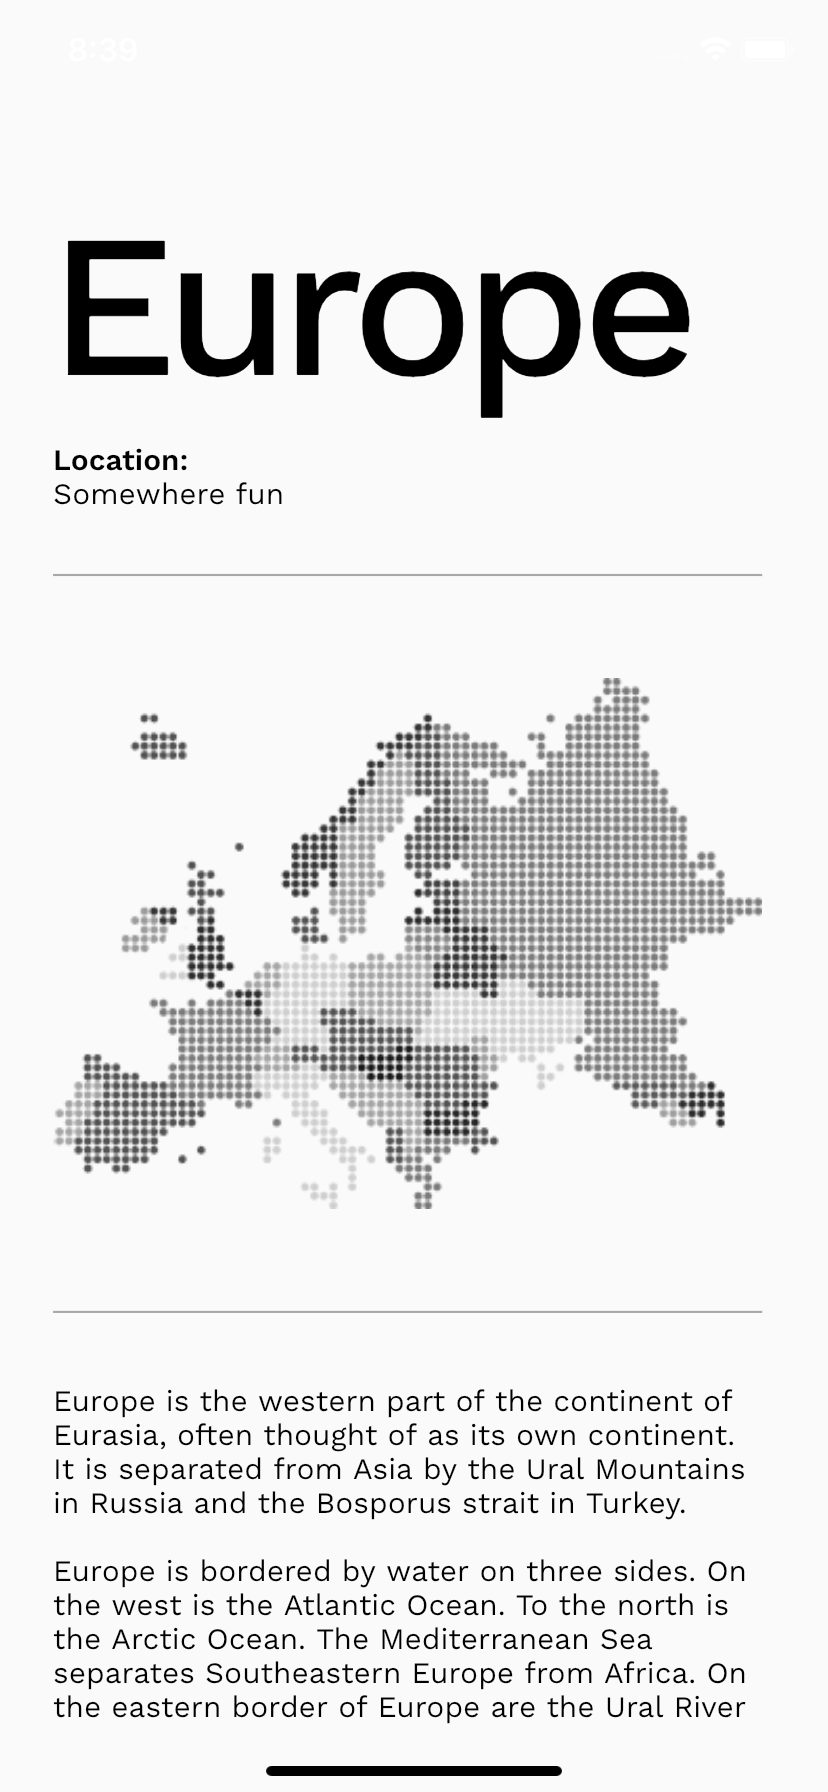
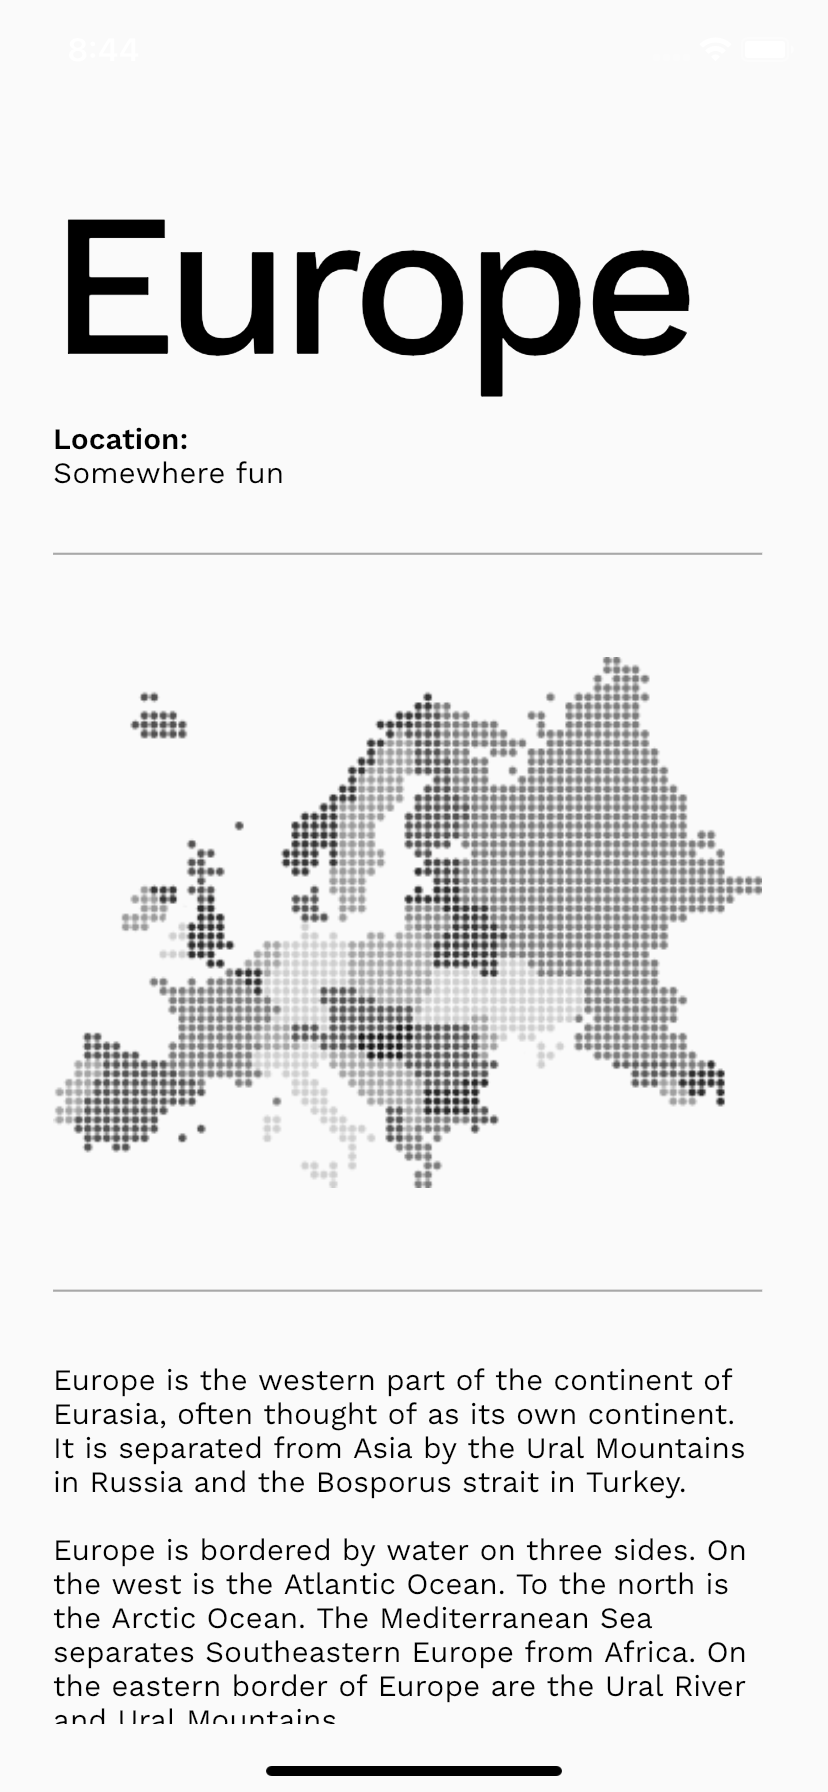
Implemented pahe 45

diff --git a/lib/src/mobile_ui/45/page_45.dart b/lib/src/mobile_ui/45/page_45.dart
@@ -23,7 +23,7 @@ class _Page45State extends State<Page45> {
             crossAxisAlignment: CrossAxisAlignment.start,
             children: [
               SizedBox(
-                height: 42.h,
+                height: 32.h,
               ),
               Text(
                 "Europe",
